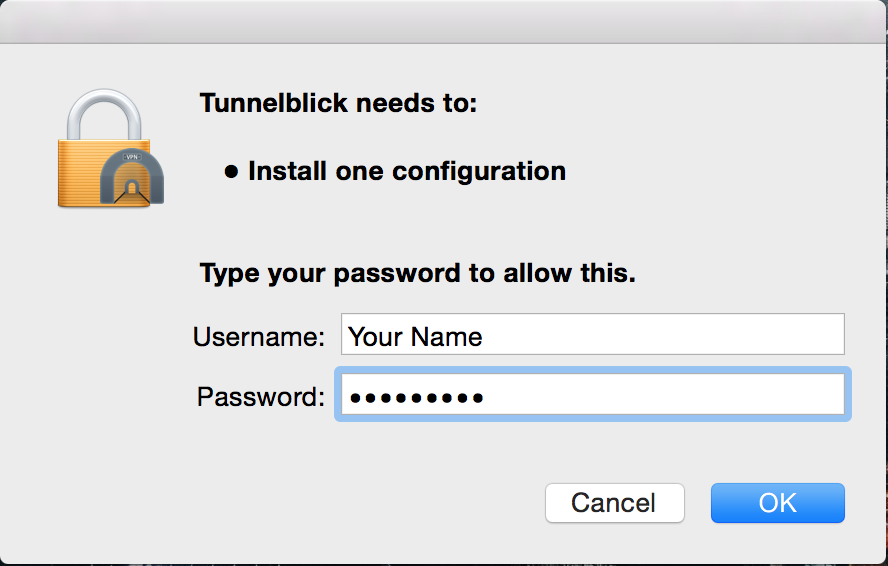
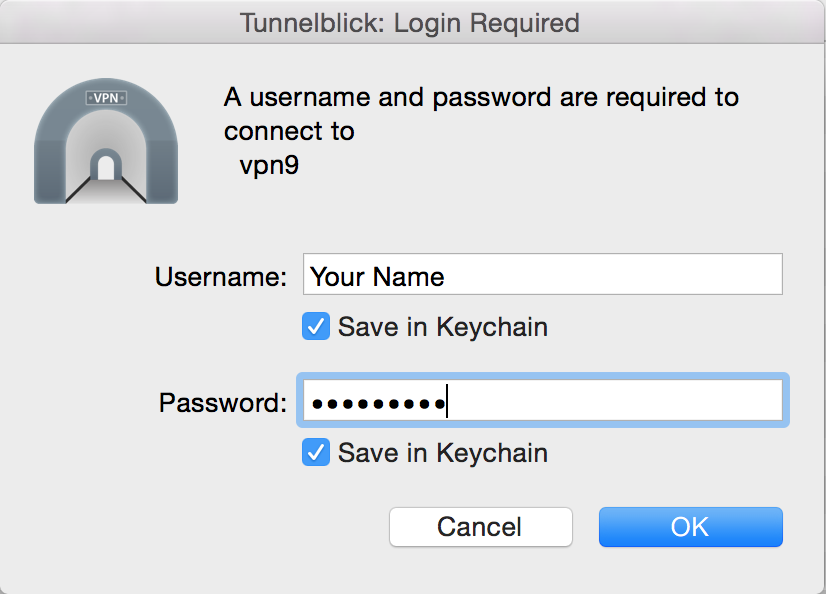
[ADD] make small fixs

diff --git a/vpn9/index.md b/vpn9/index.md
@@ -128,9 +128,10 @@
 
     进入[https://vpn.net9.org/](https://vpn.net9.org/)下载，或者直接从<a href="files/vpn9.ovpn" target="_blank">此处</a>下载。
     
-1. 导入配置文件
+1. 导入配置文件，需要输入当前OS X用户的用户名，密码
 
     ![导入配置文件](images/osx1.png)
+    ![输入用户名密码](images/osx1_1.png)
     ![导入配置文件后](images/osx2.png)
     
 1. 初次启动 OpenVPN，注意勾选保存用户名，密码
